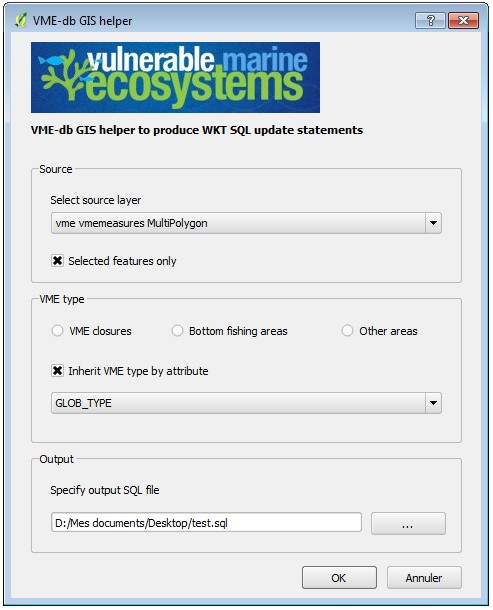
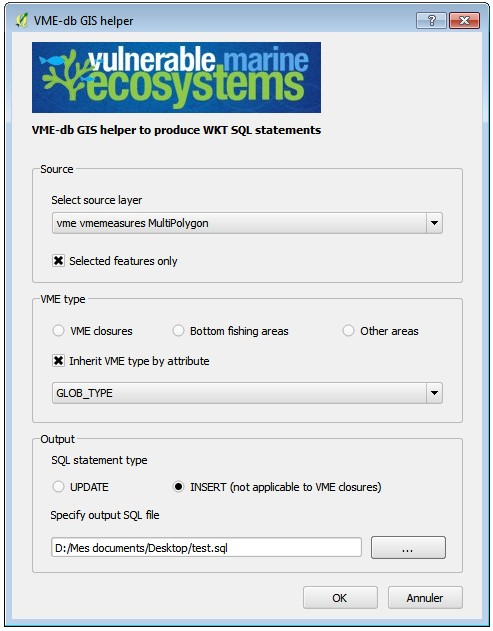
add support for INSERT sql statements (only for BFAs and OARAs)

diff --git a/VmeHelper/vme_helper.py b/VmeHelper/vme_helper.py
@@ -88,6 +88,9 @@ class VmeHelper:
         self.dlg.attrComboBox.setEnabled(False)
         self.dlg.attrCheckBox.setCheckState(Qt.Unchecked)
         self.dlg.attrCheckBox.stateChanged.connect(self.state_changed_attrs)
+        self.dlg.vmeType1.toggled.connect(self.state_changed_vmetype)
+        self.dlg.vmeType2.toggled.connect(self.state_changed_vmetype)
+        self.dlg.vmeType2.toggled.connect(self.state_changed_vmetype)
         
         #output
         self.dlg.outLineEdit.clear()
@@ -222,20 +225,45 @@ class VmeHelper:
         elif self.dlg.vmeType3.isChecked():
             vmeType = "OTHER"
         return vmeType
-        
+       
+    def get_sql_type(self):
+        sqlType = ""
+        if self.dlg.sqlType1.isChecked():
+            sqlType = "UPDATE"
+        elif self.dlg.sqlType2.isChecked():
+            sqlType = "INSERT"
+        return sqlType
+       
     def state_changed_layer(self, int):
         if self.dlg.attrCheckBox.checkState() == Qt.Checked:
             self.fetch_layer_attrs()
-            
+        
+    def state_changed_vmetype(self, enabled):
+        if self.dlg.vmeType1.isChecked():   
+            if self.dlg.attrCheckBox.checkState() == Qt.Unchecked:
+                self.dlg.sqlType2.setEnabled(False)
+                self.dlg.sqlType1.setChecked(True)  
+            else:
+                self.dlg.sqlType2.setEnabled(True)
+            return
+        elif (self.dlg.vmeType2.isChecked() or self.dlg.vmeType3.isChecked()):
+            self.dlg.sqlType2.setEnabled(True)
+            return
+    
     def state_changed_attrs(self, int):
         if self.dlg.attrCheckBox.checkState() == Qt.Checked:
             self.dlg.attrComboBox.setEnabled(True)
             self.fetch_layer_attrs()
+            if self.dlg.vmeType1.isChecked():
+                self.dlg.sqlType2.setEnabled(True)
         else:
             self.dlg.attrComboBox.clear()
             self.dlg.attrComboBox.setEnabled(False)
+            if self.dlg.vmeType1.isChecked():
+                self.dlg.sqlType2.setEnabled(False)
+                self.dlg.sqlType1.setChecked(True) 
         
-    def write_sql_file(self, filename, layer, vmeType):
+    def write_sql_file(self, filename, layer, vmeType, sqlType):
         output_file = open(filename, 'w')
         fields = layer.pendingFields()
         fieldnames = [field.name() for field in fields]
@@ -260,6 +288,7 @@ class VmeHelper:
             headerline += "Inherited from field '"+fieldnames[self.dlg.attrComboBox.currentIndex()]+"'\n"
         else:
             headerline += vmeType+"\n"
+        headerline += "--   * SQL Statement type: "+sqlType+"\n"
         headerline += "--   * Output file name: "+filename+"\n"
         headerline += "\n\n"
         unicode_headerline = headerline.encode('utf-8')
@@ -278,39 +307,59 @@ class VmeHelper:
             """ Prepare SQL statements according to dataType """
             geom = f.geometry()
             if dataType == "VME":
+                #case of VME closures
                 vmeTable = "VME.GEOREF"
                 vmeFilterField = "GEOGRAPHICFEATUREID"
-                line = "-- VME.GEOREF SQL UPDATE statement - "+vmeFilterField+" = '"+f['VME_AREA_T']+"'\n"
-                line += "UPDATE "+vmeTable+" SET WKT_GEOM = '"+geom.exportToWkt()+"' WHERE "+vmeFilterField+" = '"+f['VME_AREA_T']+"';" + "\n\n"
+                
+                #sql comment/statement
+                if sqlType == "UPDATE":
+                    line = "-- VME.GEOREF SQL UPDATE statement - "+vmeFilterField+" = '"+f['VME_AREA_T']+"'\n"
+                    line += "UPDATE "+vmeTable+" SET WKT_GEOM = '"+geom.exportToWkt()+"' WHERE "+vmeFilterField+" = '"+f['VME_AREA_T']+"';" + "\n\n"
+                elif sqlType == "INSERT":
+                    line = "-- No SQL statement generated for "+vmeFilterField+" = '"+f['VME_AREA_T']+"'. "
+                    line += "INSERT statements are not supported for 'VME closures' type.\n\n"
+                    
             else :
-                
-                dbFields = ["VME_ID","LOCAL_NAME","YEAR","END_YEAR","OWNER","VME_AREA_TIME","GLOB_TYPE","GLOB_NAME","REG_TYPE","REG_NAME","SURFACE"]
-           
+                #case of BFAs and OARAs
+                dbFields = ["VME_ID","LOCAL_NAME","YEAR","END_YEAR","OWNER","VME_AREA_T","GLOB_TYPE","GLOB_NAME","REG_TYPE","REG_NAME","SURFACE"]
                 vmeTable = ""
-                
                 if dataType == "BTM_FISH":
                     vmeTable = "FIGIS_GIS.VME_GIS_BFA"
                 elif dataType == "OTHER":
                     vmeTable = "FIGIS_GIS.VME_GIS_OARA"
-                    
                 vmeFilterField = "VME_AREA_TIME"
+                
                 if vmeTable != "":
-                    line = "-- "+vmeTable+" SQL UPDATE statement - "+vmeFilterField+" = '"+f['VME_AREA_T']+"'\n"
-                    line += "UPDATE "+vmeTable+" "
-                    line += "SET"
-                    line += " THE_GEOM = SDO_UTIL.FROM_WKTGEOMETRY('"+ geom.exportToWkt() +"')"
-                    for dbField in dbFields:
-                        field = dbField
-                        if dbField == "VME_AREA_TIME": continue                 
-                        fieldValue = f[field]
-                        if dbField != "SURFACE" and dbField != "YEAR" and dbField != "END_YEAR":
-                            fieldValue = "'"+fieldValue+"'"
-                        line += ","+dbField+" = "+str(fieldValue)
-
-                    line += " WHERE "+vmeFilterField+" = '"+f['VME_AREA_T']+"';" + "\n\n"
+                    #sql comment
+                    line = "-- "+vmeTable+" SQL "+sqlType+" statement - "+vmeFilterField+" = '"+f['VME_AREA_T']+"'\n"
+                    
+                    #sql statement (UPDATE or INSERT)
+                    if sqlType == "UPDATE":
+                        line += "UPDATE "+vmeTable+" "
+                        line += "SET"
+                        line += " THE_GEOM = SDO_UTIL.FROM_WKTGEOMETRY('"+ geom.exportToWkt() +"')"
+                        for dbField in dbFields:
+                            if dbField == "VME_AREA_T": continue                 
+                            fieldValue = f[dbField]
+                            if dbField != "SURFACE" and dbField != "YEAR" and dbField != "END_YEAR":
+                                fieldValue = "'"+fieldValue+"'"
+                            line += ","+dbField+" = "+str(fieldValue)
+                        line += " WHERE "+vmeFilterField+" = '"+f['VME_AREA_T']+"';" + "\n\n"
+                        
+                    elif sqlType == "INSERT":
+                        sqlFields = ", ".join(dbFields)
+                        sqlFieldValues = []
+                        for dbField in dbFields:
+                            fieldValue = f[dbField]
+                            if dbField != "SURFACE" and dbField != "YEAR" and dbField != "END_YEAR":
+                               fieldValue = "'"+fieldValue+"'"
+                               sqlFieldValues.append(str(fieldValue))
+                        sqlFieldValues = ", ".join(sqlFieldValues)    
+                        line += "INSERT INTO "+vmeTable+" (THE_GEOM, "+sqlFields+")"
+                        line += " VALUES(SDO_UTIL.FROM_WKTGEOMETRY('"+ geom.exportToWkt() +"'), "+ sqlFieldValues +");\n\n"  
                 else:
                    line = "-- No SQL statement generated for "+vmeFilterField+" = '"+f['VME_AREA_T']+"'. "
-                   line += "Please check the field selected to inherit VME type is correct, and/or its values are correct and match the VME type classification ('VME','BTM_FISH','OTHER').\n"
+                   line += "Please check the field selected to inherit VME type is correct, and/or its values are correct and match the VME type classification ('VME','BTM_FISH','OTHER').\n\n"
                 
             """ Write line to SQL file"""
             if line != "":
@@ -357,18 +406,23 @@ class VmeHelper:
             vmeType = self.get_vme_type()
             if vmeType == "":
                 if self.dlg.attrCheckBox.checkState() == Qt.Unchecked:
-                    self.iface.messageBar().pushMessage("Warning", "Please select a VME type or check VME type selection by attribute", level=QgsMessageBar.WARNING)
+                    self.iface.messageBar().pushMessage("Error", "Please select a VME type or check VME type selection by attribute", level=QgsMessageBar.CRITICAL)
                     return
             else :
                 if self.dlg.attrCheckBox.checkState() == Qt.Checked:
                     vmeType = ""
             
-            #output
+            sqlType = self.get_sql_type()
+            if sqlType == "":
+                self.iface.messageBar().pushMessage("Error", "No SQL statement type selected", level=QgsMessageBar.CRITICAL)
+                return
+            
+            #output file
             outfile = self.dlg.outLineEdit.text()
             if outfile == "":
                 self.iface.messageBar().pushMessage("Error", "No output SQL file specified", level=QgsMessageBar.CRITICAL)
                 return    
-            out = self.write_sql_file(outfile, selectedLayer, vmeType)
+            out = self.write_sql_file(outfile, selectedLayer, vmeType, sqlType)
             if out:
                 self.iface.messageBar().pushMessage("Info", "The SQL file '"+out+"' has been successfully created!", level=QgsMessageBar.INFO)
                 return 

diff --git a/VmeHelper/README.md b/VmeHelper/README.md
@@ -11,15 +11,17 @@ The plugin allows to:
 
 * **select an input layer** (available through the QGIS workspace) or its selected features: typically a GDB layer
 * **select the VME type** (VME closures, BFAs, OARAs) or inherit such VME type from an attribute.
+* **select the SQL statement type** (UPDATE or INSERT)
 * **set the output SQL file** where SQL statements will be written and from where they can be copied and executed to maintain the database(s)
 
 **Notes:**
 
 * In case a VME type is selected, the plugin considers all the layer features set as input are targeting this VME type, and consequently applies the SQL statement defined for this VME type.
 * In case a VME type is selected, byt the "Inherit VME type from attribute" box is checked, the latter prevails.
+* In case the "VME closures" type is selected, only the UPDATE SQL statement type is allowed.
 
 **Target data scopes:**
 
 * _**VME closures**_: SQL statements for WKT_GEOM field updates in VME database
-* _**Bottom Fishing Areas (BFA)**_: SQL statements for multi-field updates in FIGIS_GIS database
-* _**Other areas (OARA)**_: SQL statements for multi-field updates in FIGIS_GIS database
+* _**Bottom Fishing Areas (BFA)**_: SQL statements for multi-field updates or inserts in FIGIS_GIS database
+* _**Other areas (OARA)**_: SQL statements for multi-field updates or inserts in FIGIS_GIS database
